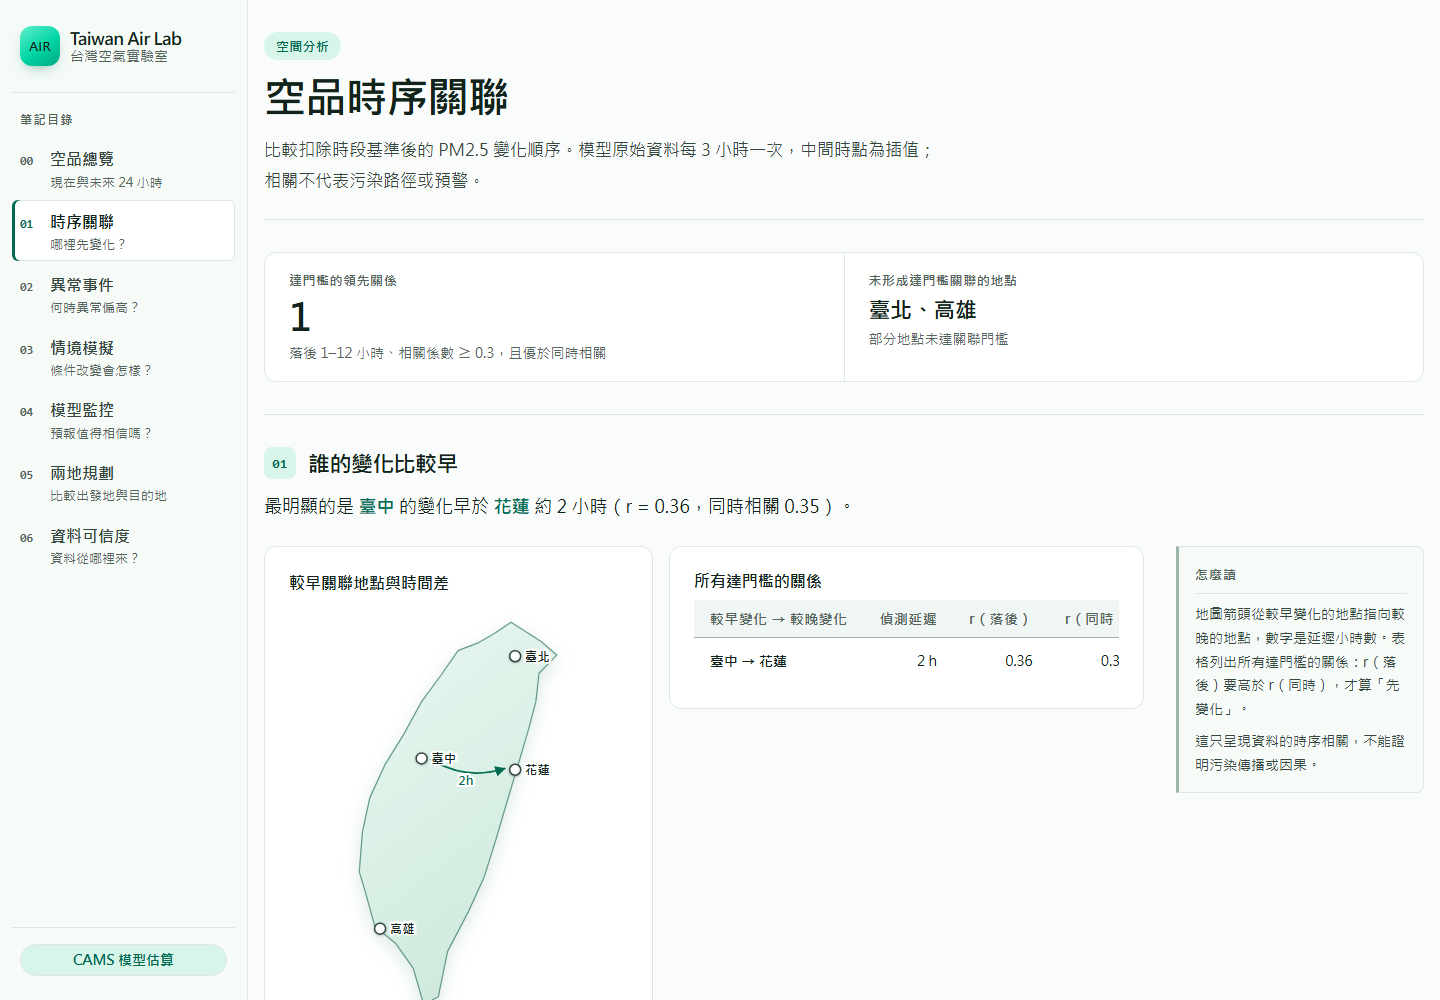
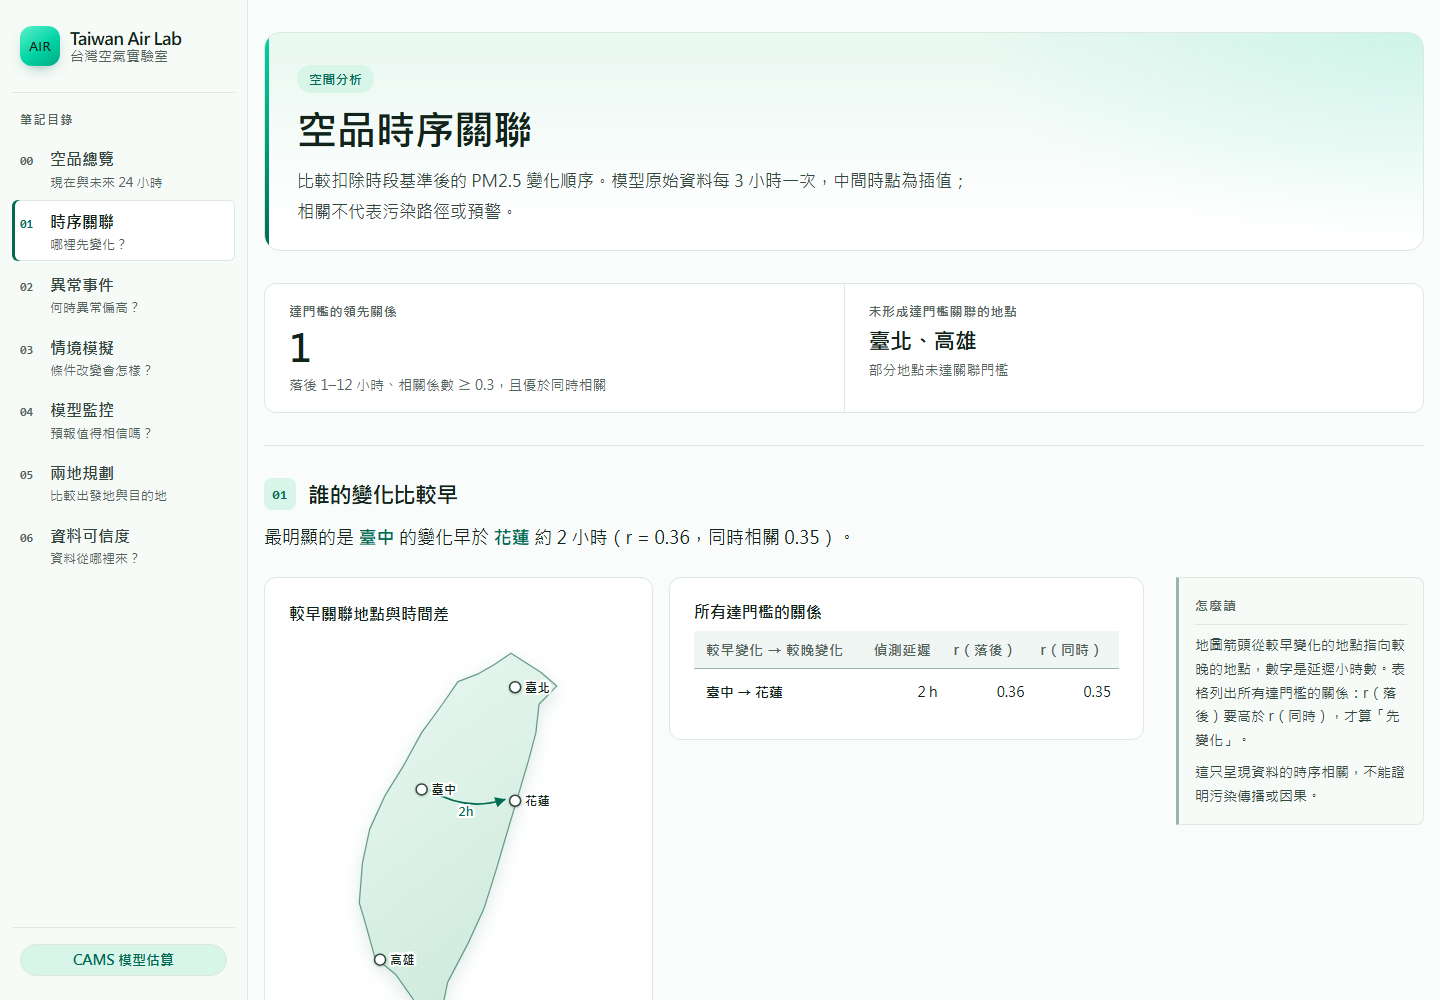
docs: refresh the README and retake the screenshots
- Retake all seven screenshots from the live site; they predated the mint
  panel headers and the other visual changes of the last weeks.
- Engineering highlights: static first paint (measured on a simulated phone),
  readable failure states (20 s data timeout, stale-tab message), keyboard and
  screen-reader behaviour, and the main-branch protection rules.
- Local run and validation: the one-command gate (run_project.bat --validate),
  the web test commands, and why production-data.spec.ts fails locally with
  sample data.

diff --git a/README.md b/README.md
@@ -86,6 +86,10 @@ flowchart LR
 - **一定要贏過簡單基準**：各時距 MAE 和持續性、訓練期氣候值兩個基準在同一批測試樣本上比較，輸給基準的時距也照列。
 - **資料與部署可驗證**：每個匯出檔的 SHA-256 寫進 manifest，瀏覽器載入時逐一比對；部署後再比對線上 `deployment.json` 記錄的原始碼版本，以及 index.html、JS、CSS 的雜湊。
 - **Python 與瀏覽器一致**：出門規劃與情境模擬在瀏覽器端計算，以 parity 案例比對 Python 實作的結果。
+- **慢手機也先看到東西**：`index.html` 內建靜態的載入畫面（品牌加載入中骨架），CSS 一到就繪製，不必等 JavaScript 下載完。模擬手機（CPU 慢 4 倍、1.6 Mbps、延遲 150 ms）的對照測試中，首次繪製從約 2.6 秒降到約 1.0 秒，版面位移維持 0；這是模擬條件，實機會有出入。
+- **出問題時說人話**：每個資料檔最多等 20 秒，逾時會明說；網站每天部署 4 次，開著舊分頁的人切換頁面時會看到「網站剛更新過，請重新載入」，不會看到英文技術訊息。
+- **鍵盤與讀屏友善**：切換地點後焦點留在切換器；在手機上點異常事件時，焦點會移到下方的詳情；情境模擬拖動滑桿時只朗讀預測結果，不重複朗讀整個面板。E2E 以 axe 檢查 WCAG 2.2 AA 規則，嚴重與重大違規必須為 0。
+- **main 受保護**：只能經 pull request 合併，且須通過 9 項必要檢查（Python 與網站測試、真實資料整合、相依套件與密鑰掃描、Windows 啟動器、建置），不允許刪除或強制覆寫。
 
 Python 資料流程、React、TypeScript 與 Vite，GitHub Pages 提供靜態展示。介面是「天氣 App × 實驗筆記」：首頁先看現在到未來 24 小時，分析頁以編號章節呈現（一句由資料算出的重點、圖表、「怎麼讀」說明）。導覽依寬度切換：1200px 以上為左側目錄欄，641–1199px 為頂部導覽列，手機為底部分頁列。設計原則見 [DESIGN.md](DESIGN.md)，方法與限制見[方法說明](docs/METHODS.md)。
 
@@ -99,4 +103,25 @@ python run_all.py --mode sample
 cd web && npm ci && npm run dev
 ```
 
-公開模型資料使用 `python run_all.py --mode api --require-api`。測試與部署說明見[資料契約](docs/data-contract.md)、[GitHub Pages](docs/GITHUB_PAGES.md)及[部署指南](docs/deployment.md)。
+公開模型資料使用 `python run_all.py --mode api --require-api`。
+
+### 一次跑完所有關卡
+
+```bash
+run_project.bat --validate
+```
+
+Windows 上的單一指令：用範例資料跑完整資料流程，接著 pytest、bandit、ruff、pip-audit，以及網站的 typecheck、lint、vitest 覆蓋率、建置與體積預算，最後不啟動網站。不帶參數則建置後在 `http://127.0.0.1:4173` 開啟預覽。
+
+### 網站測試
+
+```bash
+cd web
+npm run typecheck && npm run lint && npm run coverage   # 型別、lint、單元測試
+npm run build && npm run size                           # 建置與體積預算（首屏 JS ≤ 200 KB gzip）
+npm run e2e                                             # Playwright：功能、版面與無障礙（需先 build）
+```
+
+E2E 在桌面（淺色與深色偏好）、平板與手機四種設定下執行。本機用範例資料時，`production-data.spec.ts` 會失敗，這是預期的：它要求真實的 Open-Meteo 資料，由 CI 以公開 API 資料執行。
+
+測試與部署說明見[資料契約](docs/data-contract.md)、[GitHub Pages](docs/GITHUB_PAGES.md)及[部署指南](docs/deployment.md)。
